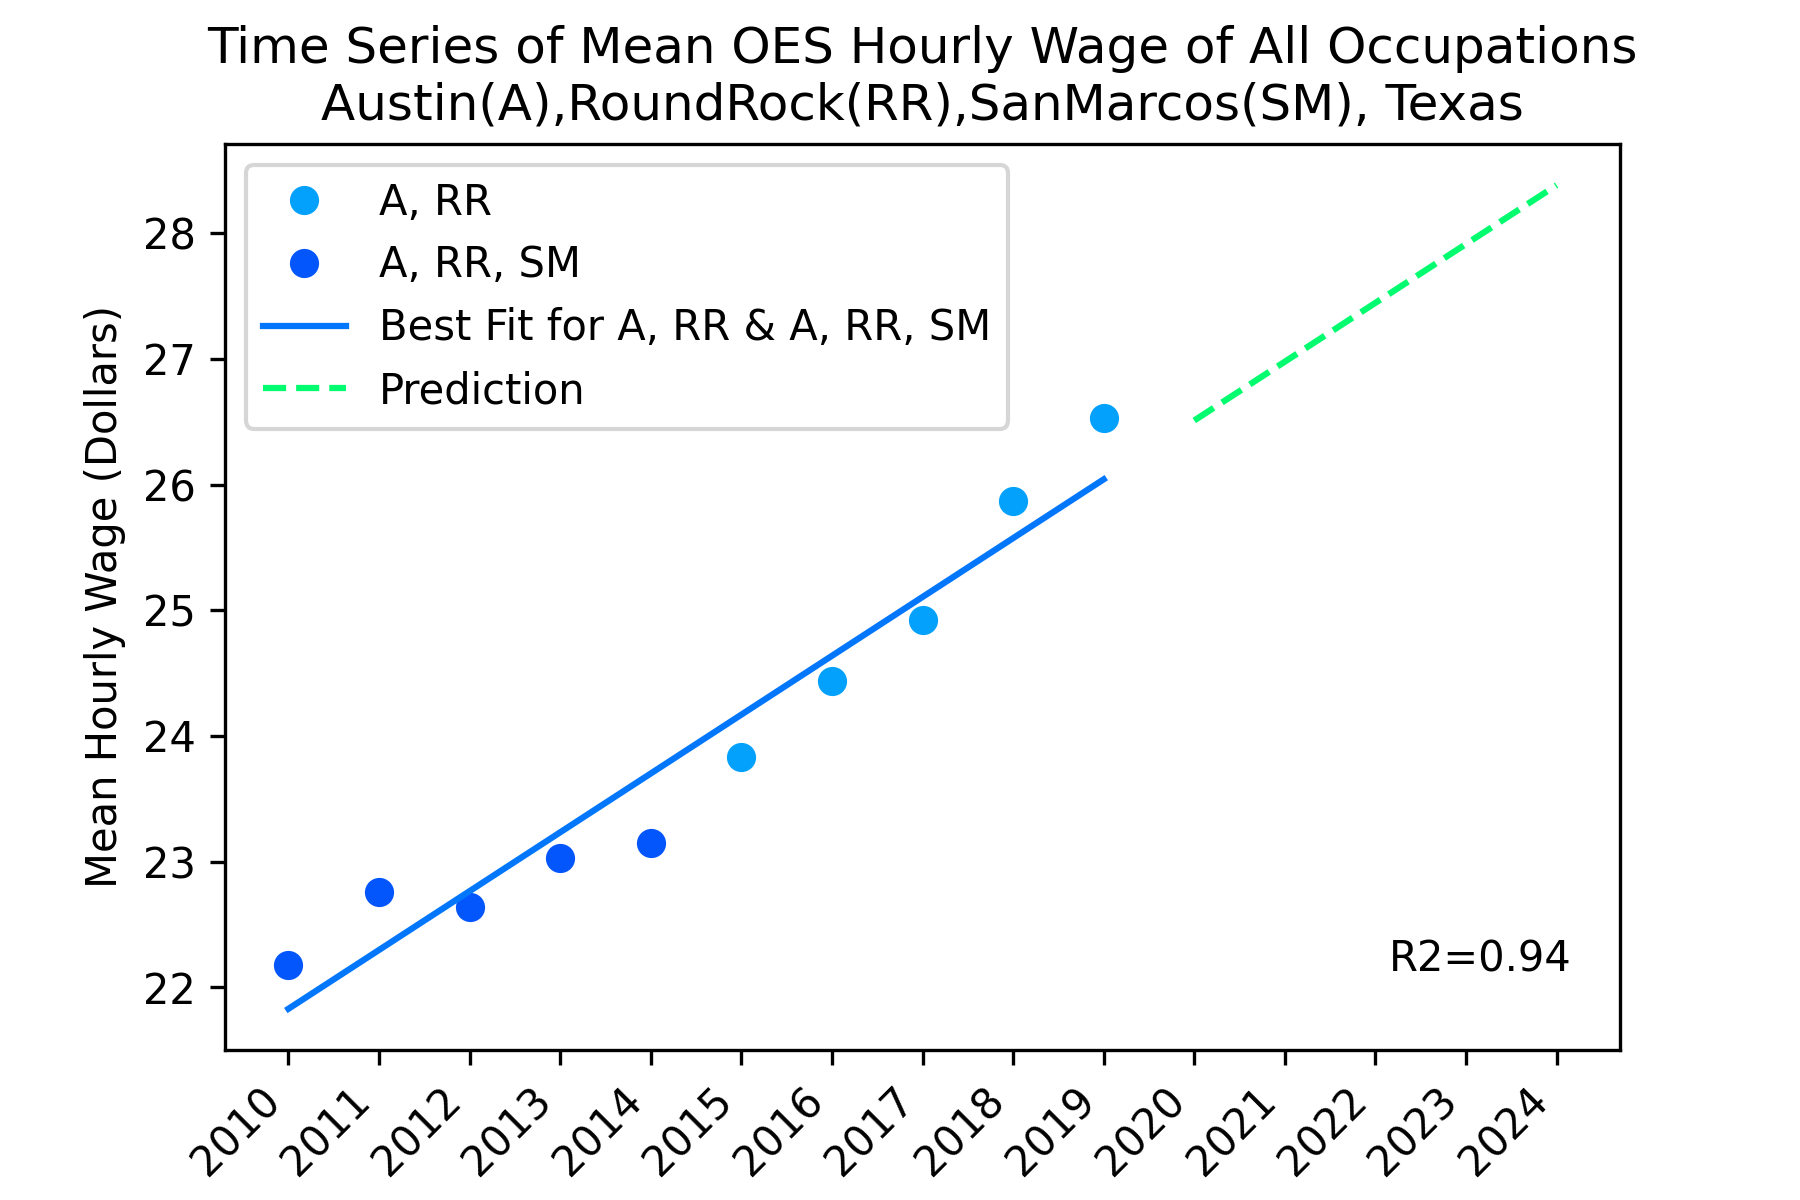
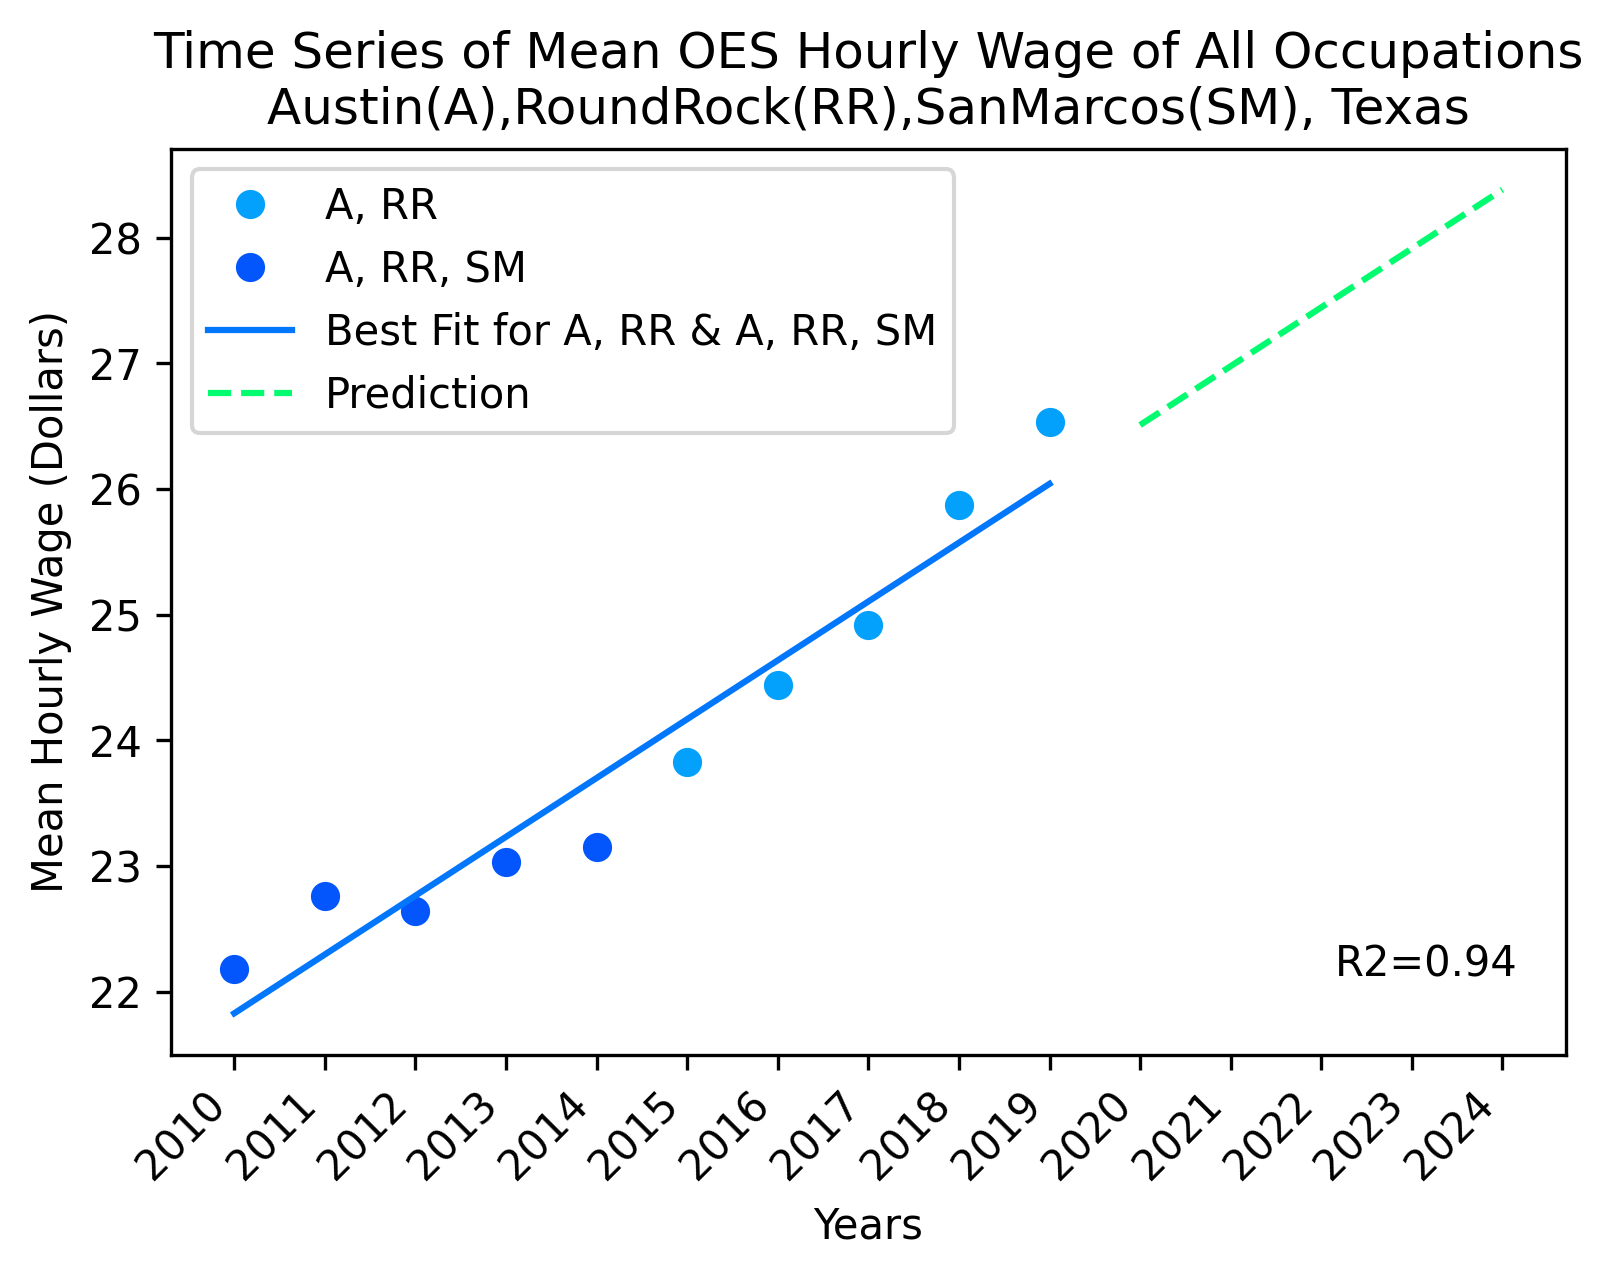
solves clipping on a few graphing images

diff --git a/OES&ZHVI-in-Austin.py b/OES&ZHVI-in-Austin.py
@@ -100,7 +100,7 @@ def OES(graph = False):
         child_dir = "graphs"
         if not os.path.exists(child_dir):
             os.makedirs(child_dir)
-        plt.savefig(os.path.join(child_dir, graph_filename), dpi=300)
+        plt.savefig(os.path.join(child_dir, graph_filename), dpi=300, bbox_inches='tight')
         plt.show()
         print("saving {} in {}".format(graph_filename, os.getcwd()))
 
@@ -178,7 +178,7 @@ def ZHVI (graph = False):
         child_dir = "graphs"
         if not os.path.exists(child_dir):
             os.makedirs(child_dir)
-        plt.savefig(os.path.join(child_dir, graph_filename), dpi=300)
+        plt.savefig(os.path.join(child_dir, graph_filename), dpi=300, bbox_inches='tight')
         print("saving {} in {}".format(graph_filename, os.getcwd()))
 
     return(x,y,y_bf,x_future,y_bf_future,regr, r2)
@@ -235,7 +235,7 @@ def mortgage(sp, sp_future, graph = False):
         child_dir = "graphs"
         if not os.path.exists(child_dir):
             os.makedirs(child_dir)
-        plt.savefig(os.path.join(child_dir, graph_filename), dpi=300)
+        plt.savefig(os.path.join(child_dir, graph_filename), dpi=300, bbox_inches='tight')
         print("saving {} in {}".format(graph_filename, os.getcwd()))
         plt.show()
 
